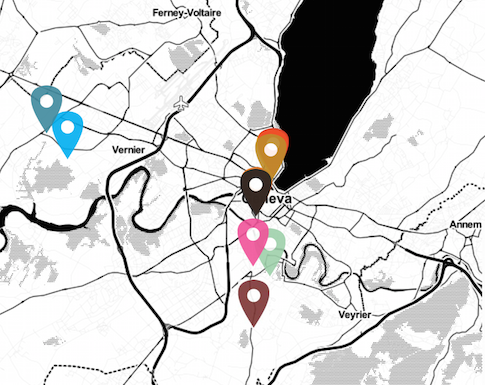
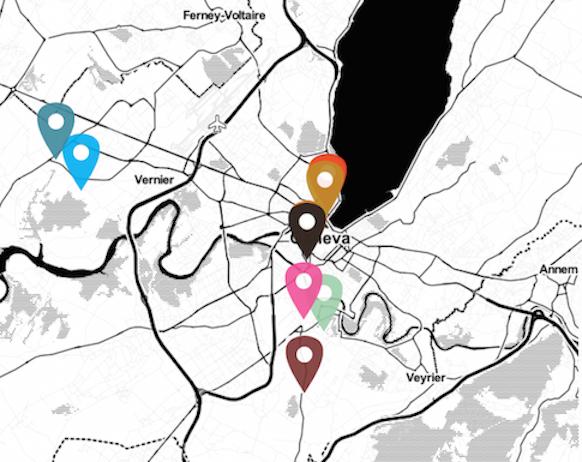
debug wrong picture on the French page.

diff --git a/index_eng.html b/index_eng.html
@@ -73,7 +73,7 @@
         <header>
           <h3>A Festival of Independent Hackathons</h3><br>
           <h4>open to everyone <br></h4>
-          <br>
+          <br><br>
           <h4><a href="index.html" class="button style4" > &nbsp; en français &nbsp; </a></h4>
 
         </header>
@@ -82,7 +82,7 @@
 
     <!-- Feature 1 -->
     <article id="hack_def" class="container box style1 left">
-        <a href="organisation/2017/04/12/hackathons.html" target="_blank" class="image fit"><img src="images/map_hackathons.png" alt="map hackathons" /></a>
+        <a href="organisation/2017/04/12/hackathons.html" target="_blank" class="image fit"><img src="images/map_hackathons_2.png" alt="map hackathons" /></a>
         <div class="inner">
           <div class="banner mybanner">
 
@@ -90,8 +90,8 @@
               <h4>What's a Hackathon ?</h4><br>
                 <p>Hackathons are 1 to 2 day events, when teams of engaged people work on "hacks".</p>
                 <p>Hacks are simple and practical solutions to well identified problems.</p>
-
-                <h4><a href="organisation/2017/04/12/hackathons.html" class="button style2"> &nbsp; see list of hackathons &nbsp;  </a><h4><br>
+<br><br>
+                <h4><a href="organisation/2017/04/12/hackathons.html" class="button style2"> &nbsp; see list of hackathons &nbsp;  </a><h4>
             </div>
           </div>
 
@@ -108,8 +108,8 @@
           <p> The event is part of the digital strategy of the University of Geneva. </p>
           <p> The objective is to make the city and the world more sustainable,
             by helping open innovation generated by citizen, associations, and the institutions.</p>
-
-           <h1><a href="organisation/2017/04/13/participer.html" class="button style2"> &nbsp; Participate &nbsp;  </a></h1><br>
+<br><br>
+           <h1><a href="organisation/2017/04/13/participer.html" class="button style2"> &nbsp; Participate &nbsp;  </a></h1>
          </div>
          </div>
 
@@ -128,11 +128,10 @@
             a casual moment.</p>
             <p>
             Participants show and tell their experience, projects and prototypes.
-            </p>
+          </p>
+          <br><br>
 
-            <h4><a href="#program_sunday" class="button style2"> &nbsp; See the Sunday program &nbsp;  </a></h4><br>
-
-
+            <h4><a href="#program_sunday" class="button style2"> &nbsp; See the Sunday program &nbsp;  </a></h4>
 
 
           </div>

diff --git a/index.html b/index.html
@@ -82,7 +82,7 @@
 
     <!-- Feature 1 -->
     <article id="hack_def" class="container box style1 left">
-        <a href="#" class="image fit"><img src="images/ogh2015.jpg" alt="" /></a>
+        <a href="#" class="image fit"><img src="images/map_hackathons_2.png" alt="" /></a>
         <div class="inner">
           <div class="banner mybanner">
 
@@ -92,8 +92,9 @@
                 des équipes de citoyens engagés cherchent des "hacks".</p>
                 <p> Les hacks sont des solutions simples et pratiques
                 à des problèmes bien identifiés.</p>
+                <br><br>
 
-                <h4><a href="organisation/2017/04/12/hackathons.html" class="button style2"> &nbsp; voir la liste des Hackathons &nbsp;  </a><h4><br>
+                <h4><a href="organisation/2017/04/12/hackathons.html" class="button style2"> &nbsp; voir la liste des Hackathons &nbsp;  </a><h4>
             </div>
           </div>
 
@@ -110,9 +111,9 @@
            <p> L'événement s'inscrit dans la Stratégie Numérique de l'Université de Genève. <br><br>
            L'objectif rendre la ville et le monde plus durables,
            en favorisant l'innovation ouverte portée par les citoyens, les associations et les institutions.
-         <br></p>
-
-           <h1><a href="organisation/2017/04/13/participer.html" class="button style2"> &nbsp; Participer &nbsp;  </a></h1><br>
+         </p>
+         <br><br>
+           <h1><a href="organisation/2017/04/13/participer.html" class="button style2"> &nbsp; Participer &nbsp;  </a></h1>
          </div>
          </div>
 
@@ -129,10 +130,10 @@
             <p>
             Le dimanche 14 mai de 16h à 19h, <br> les participants
             et le grand public se rencontrent au Campus Biotech pour un moment convivial de partage
-            ouvert d'expériences, de projets, et prototypes.
+            ouvert d'expériences, de projets, et de prototypes.
             </p>
-
-            <h4><a href="#program_sunday" class="button style2"> &nbsp; Voir le programme du dimanche &nbsp;  </a></h4><br>
+            <br><br>
+            <h4><a href="#program_sunday" class="button style2"> &nbsp; Voir le programme du dimanche &nbsp;  </a></h4>
 
 
 
